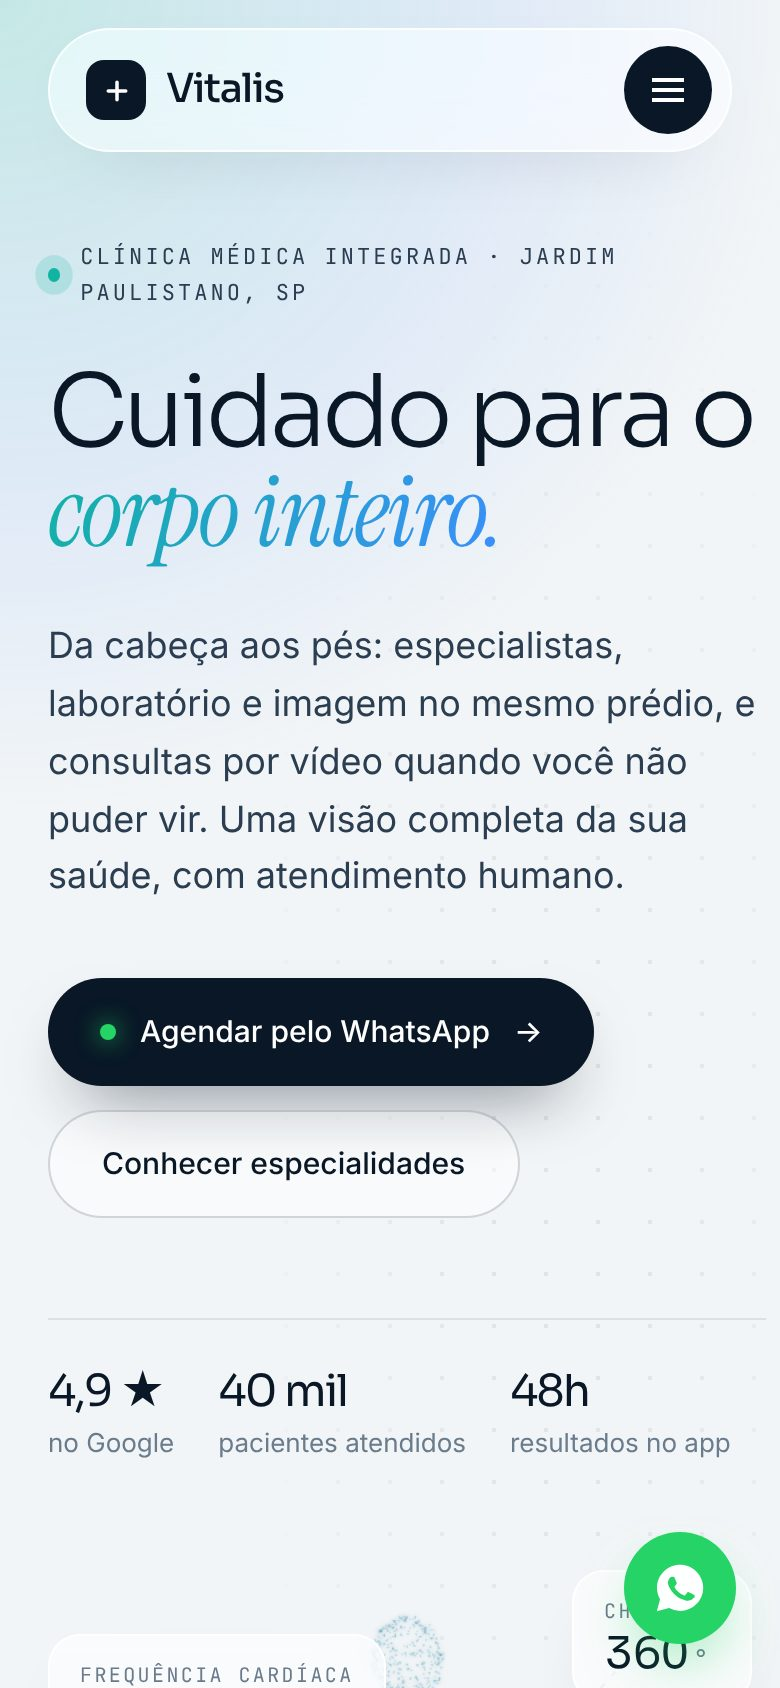
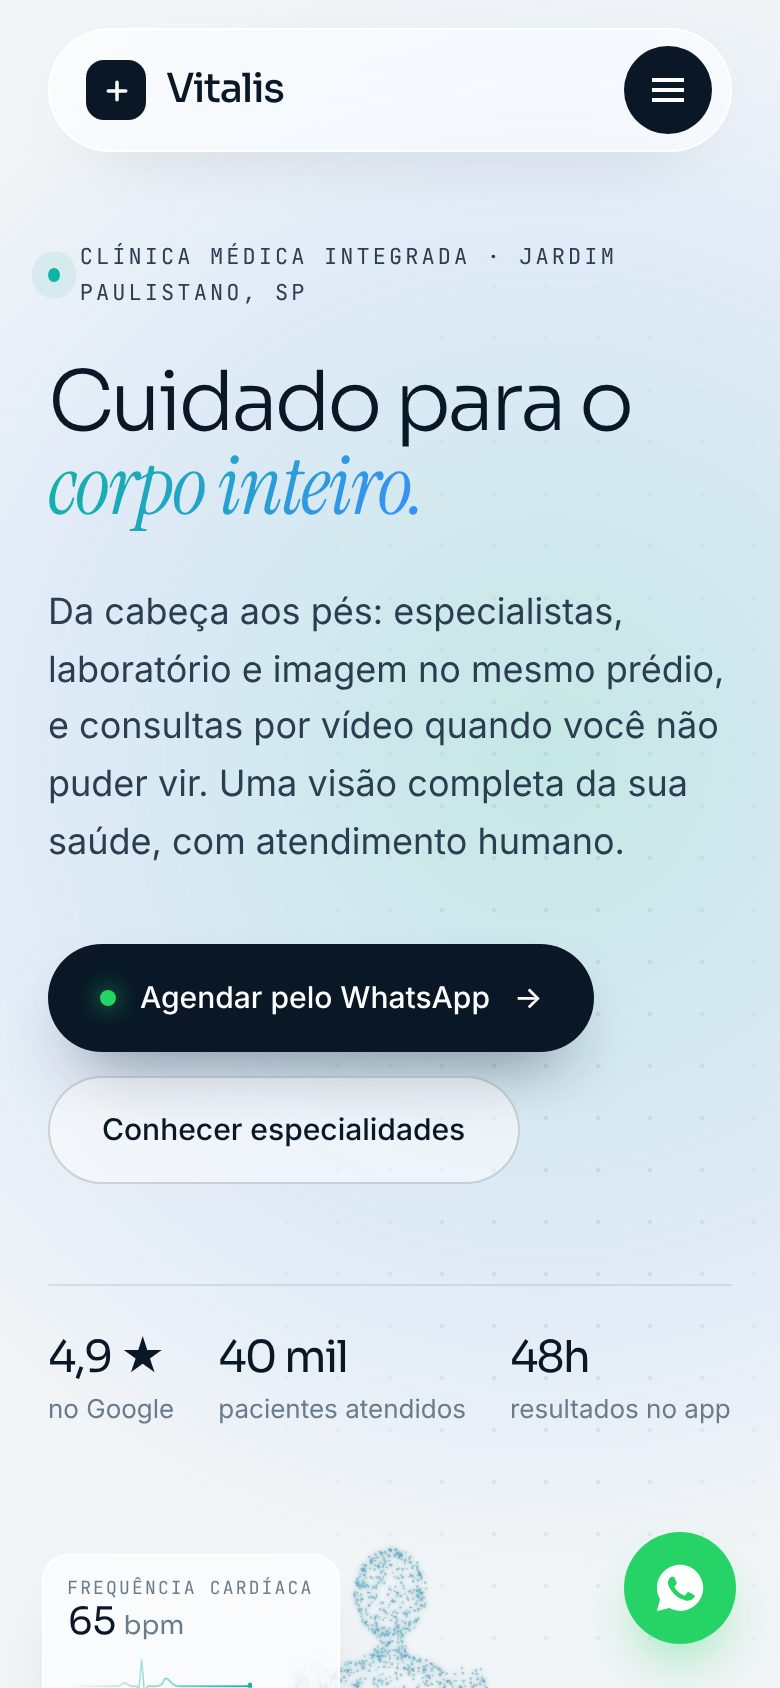
Vitalis: revisão do layout no celular
- Topo: título não quebra mais deixando o "o" sozinho; painéis menores
  sobre o corpo de partículas, sem linhas e sem o painel extra
- Especialidades: texto de dica para toque, cartões com título menor
- Exames: foto fica presa no alto enquanto as etapas passam por baixo,
  com laudo compacto mostrando barra e porcentagem
- Check-ups viram carrossel deslizante em vez de três cartões enormes
- Convênios em duas colunas, celular da telemedicina menor
- Depoimentos sem espaço vazio fixo; espaçamentos entre seções menores

Claude-Session: https://claude.ai/code/session_01BcZmjG6jhs5Ufyz8t6BH2A

diff --git a/modelos/vitalis-clinica/index.html b/modelos/vitalis-clinica/index.html
@@ -66,6 +66,7 @@
   .btn:hover .arr { transform: translateX(4px); }
 
   /* cursor: ponto com halo suave */
+  .so-mob { display: none; }
   .cur-dot, .cur-ring { position: fixed; left: 0; top: 0; z-index: 100; pointer-events: none; border-radius: 50%; opacity: 0; transition: opacity .4s; }
   body.cur-on .cur-dot, body.cur-on .cur-ring { opacity: 1; }
   .cur-dot { width: 8px; height: 8px; margin: -4px 0 0 -4px; background: var(--ink); transition: opacity .4s, background .3s, scale .4s var(--ease); }
@@ -347,8 +348,8 @@
   .dep__rate b { display: block; font-family: var(--display); font-weight: 300; font-size: 64px; letter-spacing: -.05em; line-height: 1; margin-top: 18px; }
   .dep__rate span { color: var(--muted); font-size: 14px; }
   .dep__stars { color: #f5a524; letter-spacing: 3px; margin-top: 8px; }
-  .dep__q { position: relative; min-height: 300px; }
-  .dep__item { position: absolute; inset: 0; opacity: 0; transform: translateY(24px); filter: blur(8px); transition: opacity .9s var(--ease), transform .9s var(--ease), filter .9s var(--ease); pointer-events: none; }
+  .dep__q { position: relative; display: grid; }
+  .dep__item { grid-area: 1 / 1; margin: 0; opacity: 0; transform: translateY(24px); filter: blur(8px); transition: opacity .9s var(--ease), transform .9s var(--ease), filter .9s var(--ease); pointer-events: none; }
   .dep__item.on { opacity: 1; transform: none; filter: none; pointer-events: auto; }
   .dep__item blockquote { font-family: var(--display); font-weight: 300; font-size: clamp(26px, 2.8vw, 42px); line-height: 1.22; letter-spacing: -.035em; }
   .dep__who { display: flex; align-items: center; gap: 14px; margin-top: 30px; }
@@ -413,10 +414,62 @@
     .conv__box { padding: 28px 22px; gap: 30px; }
     .phone { width: 260px; height: 530px; }
     .notif { left: -20px; }
-    .dep__q { min-height: 360px; }
     .cur-dot, .cur-ring { display: none; }
   }
-  @media (max-width: 560px) { .trust { gap: 22px; } .trust b { font-size: 22px; } .conv__grid { grid-template-columns: 1fr; } .hero h1 { font-size: 50px; } }
+  @media (max-width: 980px) {
+    .so-desk { display: none; } .so-mob { display: inline; }
+    .head { margin-bottom: 36px; gap: 18px; }
+    section.esp, section.docs, section.dx, section.packs, section.conv, section.tele, section.dep { padding-top: 84px; padding-bottom: 84px; }
+    .hero__orb { width: min(86vw, 400px); }
+    .hud { padding: 9px 12px; border-radius: 13px; }
+    .hud small { font-size: 9px; }
+    .hud--a { top: 6%; left: -2%; } .hud--a strong { font-size: 19px; } .hud canvas { width: 92px; height: 26px; }
+    .hud--b { display: none; }
+    .hud--c { right: -2%; bottom: 8%; gap: 9px; } .hud--c i { width: 28px; height: 28px; border-radius: 8px; } .hud--c strong { font-size: 13px; }
+    .leads, .scrollhint { display: none; }
+    .mani__orb { max-width: 220px; margin-top: -10px; }
+    .esp__orb { width: min(66vw, 300px); }
+    .esp__now strong { font-size: 26px; }
+    .erow__top { grid-template-columns: 30px 1fr 36px; }
+    .erow h3 { font-size: 24px; transform: none !important; }
+    .erow__ic { width: 34px; height: 34px; }
+    /* exames: a foto fica presa no alto enquanto as etapas passam por baixo */
+    .dx__stage { position: sticky; top: 84px; z-index: 2; margin: 0 -4px 26px; }
+    .dxph { width: 100%; aspect-ratio: 16/10; max-height: 36svh; margin: 0; }
+    .dxph__img { border-radius: 20px; }
+    .dxph__img img { object-position: 60% 30%; }
+    .laudo { left: 10px; right: 10px; bottom: 10px; width: auto; padding: 10px 12px; border-radius: 14px; }
+    .laudo ul { display: none; }
+    .laudo__bar { margin: 8px 0 0; }
+    .laudo strong { font-size: 13px; } .laudo__top b { font-size: 18px; }
+    .dxph__tag { top: 10px; right: 10px; font-size: 12px; padding: 6px 11px; }
+    .dx__cap { display: none; }
+    .steps { margin-top: 36px; }
+    .step { padding-bottom: 34px; } .step h3 { font-size: 22px; }
+    /* check-ups em carrossel */
+    .packs__grid { display: flex; gap: 12px; overflow-x: auto; scroll-snap-type: x mandatory; margin: 0 -24px; padding: 6px 24px 18px; scrollbar-width: none; }
+    .packs__grid::-webkit-scrollbar { display: none; }
+    .pk { flex: none; width: 80vw; max-width: 340px; scroll-snap-align: center; padding: 26px 22px 22px; border-radius: 24px; transform: none !important; opacity: 1 !important; }
+    .pk h3 { font-size: 26px; } .pk__price { margin-top: 18px; } .pk__price b { font-size: 40px; }
+    .pk ul { margin: 18px 0 22px; padding-top: 16px; gap: 8px; font-size: 14px; }
+    .conv__grid { grid-template-columns: repeat(2, 1fr); gap: 6px; }
+    .cv { padding: 11px 12px; font-size: 14px; border-radius: 12px; }
+    .conv__field { height: 56px; padding: 0 16px; border-radius: 15px; }
+    .conv__field input { font-size: 16px; }
+    .tele__grid { gap: 50px; }
+    .phone { width: 210px; height: 430px; border-radius: 36px; padding: 9px; }
+    .phone__in { border-radius: 28px; }
+    .phone__self { width: 60px; height: 84px; top: 48px; right: 12px; border-radius: 12px; font-size: 12px; }
+    .wave { bottom: 86px; left: 18px; right: 18px; height: 30px; }
+    .phone__bar { bottom: 20px; gap: 12px; } .phone__bar span { width: 42px; height: 42px; }
+    .notif { left: -60px; top: 160px; width: 210px; padding: 10px 12px; }
+    .notif strong { font-size: 13px; }
+    .tsteps { margin: 28px 0 30px; }
+    .dep__box { gap: 26px; } .dep__rate b { font-size: 52px; }
+    .cta { padding: 60px 0 90px; } .cta__orb { width: min(200px, 52vw); }
+    .info { margin-top: 56px; gap: 10px; } .info > div { padding: 20px; }
+  }
+  @media (max-width: 560px) { .trust { gap: 22px; } .trust b { font-size: 22px; } .hero h1 { font-size: clamp(36px, 10.6vw, 50px); } }
   @media (prefers-reduced-motion: reduce) {
     *, *::before, *::after { animation-duration: .01ms !important; animation-delay: 0s !important; transition-duration: .01ms !important; }
     [data-r] { opacity: 1; transform: none; }
@@ -484,7 +537,7 @@
 
 <section class="esp" id="especialidades">
   <div class="wrap">
-    <div class="head"><div><p class="eyebrow"><i></i>Especialidades</p><h2 class="h2" data-split>Um só endereço para <em>toda a família</em>.</h2></div><p class="head__p" data-r>Passe o cursor ou role pela lista: a escultura assume a forma de cada cuidado.</p></div>
+    <div class="head"><div><p class="eyebrow"><i></i>Especialidades</p><h2 class="h2" data-split>Um só endereço para <em>toda a família</em>.</h2></div><p class="head__p" data-r><span class="so-desk">Passe o cursor ou role pela lista:</span><span class="so-mob">Deslize os cartões:</span> a escultura assume a forma de cada cuidado.</p></div>
     <div class="esp__grid">
       <div class="esp__stage"><div class="orb esp__orb" data-anchor data-shape="esp"><span class="orb__ring"></span></div><div class="esp__now"><span id="espIdx">01 / 08</span><strong id="espNome">Clínica geral</strong></div></div>
       <ol class="esp__list" id="espList"></ol>
